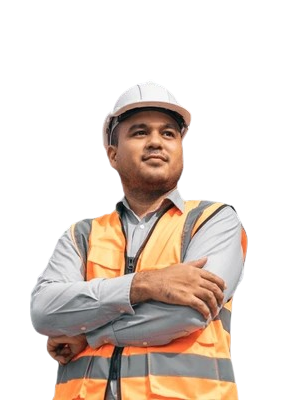
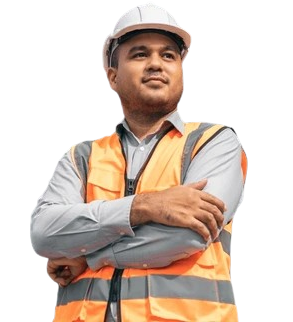
minor fixes in landing

diff --git a/src/Landing.jsx b/src/Landing.jsx
@@ -89,7 +89,7 @@ function Landing() {
             To be the epitome of Service Providing industry.
           </h1>
           <p
-            className={`2xl:text-2xl xl:text-xl max-md:text-lg max-sm:text-base transition-all duration-300 ${
+            className={`2xl:text-2xl line-height-abt xl:text-xl max-md:text-lg max-sm:text-base transition-all duration-300 ${
               isTransitioning
                 ? "opacity-0 translate-y-5"
                 : "opacity-100 translate-y-0"
@@ -101,7 +101,7 @@ function Landing() {
         {/*banner bottom*/}
         <div className="z-10">
           {/*service carousel*/}
-          <div className="w-full h-[10dvh] bg-[#C10000] max-sm:hidden">
+          <div className="w-full h-[15dvh] bg-[#C10000] max-sm:hidden">
             <LSCarousel></LSCarousel>
           </div>
           {/*spacing*/}
@@ -113,7 +113,7 @@ function Landing() {
         {/*text*/}
         <div className="flex flex-col gap-6 p-6 max-md:p-3">
           <h1 className="text-[30px] text-[#C10000]">Our Services</h1>
-          <p className="2xl:text-2xl xl:text-xl max-md:text-lg max-sm:text-base">
+          <p className="line-height-abt 2xl:text-2xl xl:text-xl max-md:text-lg max-sm:text-base">
             At JKI Construction, we are dedicated to transforming your visions
             into reality with unparalleled expertise and craftsmanship. Our
             comprehensive range of services ensures every aspect of your
@@ -144,7 +144,7 @@ function Landing() {
         {/*Top layer (backdrop)*/}
         <div className="absolute bottom-0 h-[60dvh] inset-0 bg-gradient-to-br from-[#4B4B4BB5] to-[#000000B5]"></div>
         {/*text*/}
-        <div className="z-10 flex flex-col gap-6 pl-12 text-white max-md:pl-6">
+        <div className="z-10 flex flex-col w-3/4 gap-6 pl-12 text-white line-height-abt max-md:pl-6">
           <div className="flex flex-col gap-6">
             <h1 className="text-[30px] lg:text-[50px] xl:text-[70px]">
               Our Mission
@@ -166,7 +166,7 @@ function Landing() {
         </div>
       </div>
       {/*About*/}
-      <div className="flex flex-col gap-6 p-12 h-fit max-md:p-6">
+      <div className="flex flex-col p-12 h-fit max-md:p-6 line-height-abt">
         <div>
           <p className="2xl:text-2xl xl:text-xl max-md:text-lg max-sm:text-base">
             JKI Holdings is a Pioneer in Construction, Facility Management, and
@@ -185,15 +185,20 @@ function Landing() {
             continuous improvement
           </p>
         </div>
-        <div className="relative flex h-[45dvh] min-h-fit max-md:h-fit max-md:flex-col">
+        {/*spacing div*/}
+        <div className="md:h-[20dvh]"></div>
+        <div className="relative flex h-[55dvh] min-h-fit max-md:h-fit max-md:flex-col">
+          {/*about-man*/}
           <img
             src={abt_man}
-            className="absolute max-md:relative max-md:h-[300px] max-md:object-contain bottom-0 z-10 max-2xl:h-[55dvh] h-[50dvh] object-cover"
+            className="absolute md:w-1/2 max-md:relative max-md:h-[300px] bottom-0 z-10 max-2xl:h-[70dvh] h-[60dvh] object-contain object-bottom"
             alt="about-img"
           />
-          <div className="absolute text-white pr-12 max-md:pr-6 max-sm:pr-3 right-0 bottom-0 w-full h-0 border-b-[45dvh] border-b-[#C10000] border-l-[400px] border-r-0 border-l-transparent max-lg:hidden"></div>
-          <div className="absolute flex items-center justify-end w-full h-full pr-12 max-md:relative max-md:items-start max-md:justify-center max-md:text-center max-md:py-6 max-lg:pr-0 max-lg:text-end min-h-fit">
-            <h1 className="w-1/2 text-white max-md:w-full max-md:text-center lg:line-height-abt max-lg:text-black">
+          {/*trapezoid*/}
+          <div className="absolute text-white pr-12 max-md:pr-6 max-sm:pr-3 right-0 bottom-0 w-full h-0 border-b-[55dvh] border-b-[#C10000] border-l-[400px] border-r-0 border-l-transparent max-lg:hidden"></div>
+          {/*trapezoid text*/}
+          <div className="absolute flex items-end justify-end w-full h-full pr-12 overflow-y-scroll lg:items-center max-md:relative max-md:items-start max-md:justify-center max-md:text-center max-md:py-6 max-lg:pr-0 max-lg:text-end min-h-fit no-scrollbar">
+            <h1 className="z-20 w-1/2 text-white max-md:w-full max-md:text-center lg:line-height-abt max-lg:text-black">
               <span className="hidden lg:inline text-[60px] max-md:text-2xl max-lg:text-3xl max-xl:text-5xl">
                 “
               </span>
@@ -225,7 +230,7 @@ function Landing() {
       >
         <div className="flex flex-col gap-6 p-6 max-md:p-3">
           <h1 className="text-[30px] text-[#C10000]">Our Main Clients</h1>
-          <p className="2xl:text-2xl xl:text-xl max-md:text-lg max-sm:text-base">
+          <p className="2xl:text-2xl xl:text-xl max-md:text-lg max-sm:text-base line-height-abt">
             At JKI Construction, our clients are at the heart of everything we
             do. We are proud to have partnered with individuals, businesses, and
             organizations across diverse industries to bring their construction

diff --git a/src/components/LandingServiceCar.jsx b/src/components/LandingServiceCar.jsx
@@ -80,7 +80,7 @@ const LSCarousel = () => {
   };
 
   return (
-    <div className="relative w-full h-[10dvh] flex items-center justify-center overflow-hidden">
+    <div className="relative w-full h-[15dvh] flex items-center justify-center overflow-hidden">
       <div className="absolute z-10 flex items-center justify-between w-full px-12 transform -translate-y-1/2 max-lg:px-6 top-1/2">
         <button
           onClick={goToPrevious}

diff --git a/src/components/ServiceCard.jsx b/src/components/ServiceCard.jsx
@@ -1,6 +1,6 @@
 function ServiceCard({ img, text }) {
     return (
-      <div className="relative h-[20dvh] aspect-square bg-[#C10000] max-md:w-full group cursor-pointer">
+      <div className="relative aspect-square bg-[#C10000] max-md:w-full group cursor-pointer">
         <img
           src={img}
           alt="card-img"

diff --git a/src/index.css b/src/index.css
@@ -16,3 +16,12 @@
 .line-height-abt{
   line-height: 35px;
 }
+
+.no-scrollbar::-webkit-scrollbar {
+  display: none;
+}
+
+.no-scrollbar {
+  -ms-overflow-style: none; /* Internet Explorer 10+ */
+  scrollbar-width: none; /* Firefox */
+}
